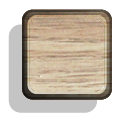
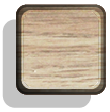
fixing dragging css

diff --git a/apps/language_scramble/css/index.css b/apps/language_scramble/css/index.css
@@ -234,14 +234,14 @@ body {
   -moz-background-size: cover;
   -o-background-size: cover;
   background-size: cover;
-  padding: 1% 1% 1.5% 1.5%;
+  padding: 1.5% 1.5% 2.5% 2.5%;
 }
 .language_scramble .guesses .letter.dragging.sized::after,
 .language_scramble .scrambled .letter.dragging.sized::after {
-  margin-top: -84%;
-  margin-left: 12%;
-  width: 76%;
-  height: 76%;
+    margin-top: -85%;
+    margin-left: 12%;
+    width: 81%;
+    height: 78%;
 }
 .language_scramble .guesses .color1 .letter::after,
 .language_scramble .scrambled .color1 .letter::after {

diff --git a/src/client/css/puzzles/language_scramble.less b/src/client/css/puzzles/language_scramble.less
@@ -295,10 +295,10 @@ body {
                 .background_size(cover);            
                 padding: 1% 1% 1.5% 1.5%; 
                 &.sized::after {   
-                    margin-top: -84%;
+                    margin-top: -85%;
                     margin-left: 12%;
-                    width: 76%;
-                    height: 76%;
+                    width: 81%;
+                    height: 78%;
                 }
             }            
         }

diff --git a/build/client/css/puzzles/language_scramble.css b/build/client/css/puzzles/language_scramble.css
@@ -344,10 +344,10 @@ body {
 }
 .language_scramble .guesses .letter.dragging.sized::after,
 .language_scramble .scrambled .letter.dragging.sized::after {
-  margin-top: -84%;
+  margin-top: -85%;
   margin-left: 12%;
-  width: 76%;
-  height: 76%;
+  width: 81%;
+  height: 78%;
 }
 .language_scramble .guesses .color1 .letter::after,
 .language_scramble .scrambled .color1 .letter::after {
